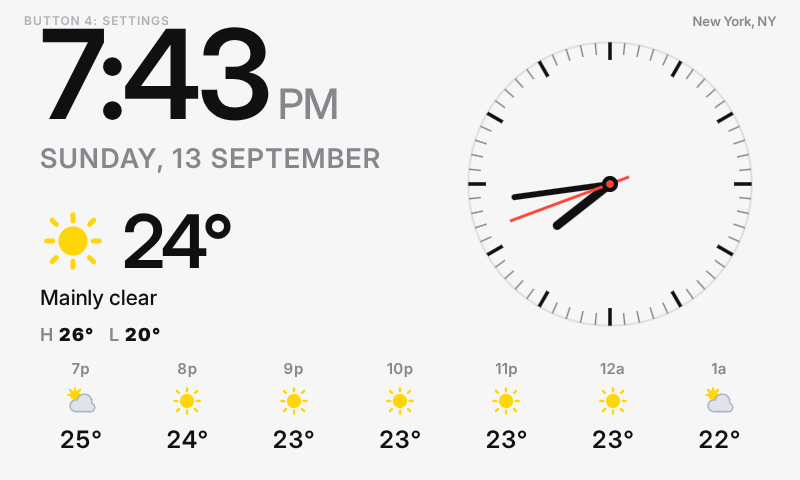
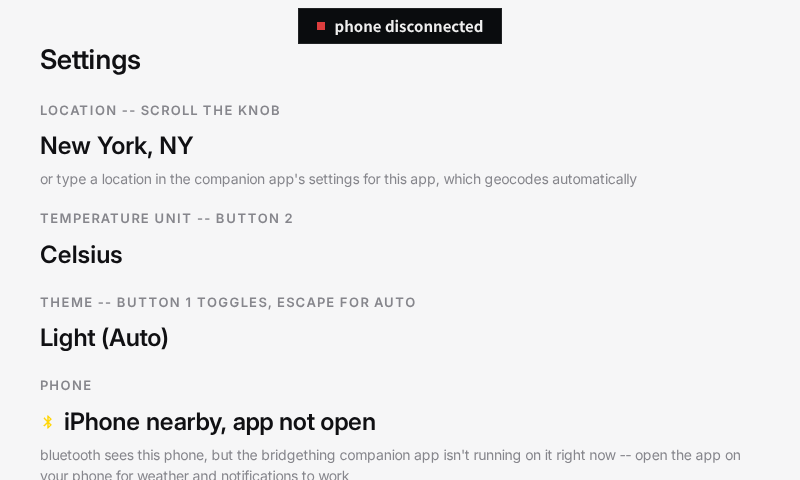
Update screenshots to show every current feature, captured live on the device
The old set (still showing the removed button legend) predated this session's
changes. Recaptured all six over CDP against the connected Car Thing: light
home, settings (now showing the real phone/Bluetooth status row), the new
7-day forecast view, the new notification center, standby mode, and dark
home. Both READMEs' galleries updated to match.

diff --git a/README.md b/README.md
@@ -11,9 +11,11 @@ multi‑tone weather icons, and an on‑device settings screen (physical button 
 
 **Source:** [`bridgething/apps/weatherthing`](bridgething/apps/weatherthing)
 
-| Night (auto dark) | Day (auto light) | On‑device settings |
+| Day (auto light) | Settings + phone status | 7‑day forecast |
 |---|---|---|
-| ![WeatherThing at night](bridgething/apps/weatherthing/screenshots/01.png) | ![WeatherThing by day](bridgething/apps/weatherthing/screenshots/02.png) | ![WeatherThing settings screen](bridgething/apps/weatherthing/screenshots/03.png) |
+| ![WeatherThing by day](bridgething/apps/weatherthing/screenshots/01.png) | ![WeatherThing settings screen](bridgething/apps/weatherthing/screenshots/02.png) | ![WeatherThing 7-day forecast](bridgething/apps/weatherthing/screenshots/03.png) |
+| **Notification center** | **Standby** | **Night (auto dark)** |
+| ![WeatherThing notification center](bridgething/apps/weatherthing/screenshots/04.png) | ![WeatherThing standby mode](bridgething/apps/weatherthing/screenshots/05.png) | ![WeatherThing at night](bridgething/apps/weatherthing/screenshots/06.png) |
 
 Controls: button **1** toggles dark/light, **2** toggles °C/°F, **3** opens a 7‑day forecast,
 **4** enters a dimmed standby (clock + temperature only, real backlight dimming), and **mode**

diff --git a/bridgething/apps/weatherthing/README.md b/bridgething/apps/weatherthing/README.md
@@ -9,9 +9,11 @@ multi‑tone weather icons, and an on‑device settings screen (physical button 
 **Install:** paste this catalog URL into the bridgething companion app —
 `https://nagarajan1295.github.io/BirdThing/catalog.v1.json`
 
-| Night (auto dark) | Day (auto light) | On‑device settings |
+| Day (auto light) | Settings + phone status | 7‑day forecast |
 |---|---|---|
-| ![WeatherThing at night](screenshots/01.png) | ![WeatherThing by day](screenshots/02.png) | ![WeatherThing settings screen](screenshots/03.png) |
+| ![WeatherThing by day](screenshots/01.png) | ![WeatherThing settings screen](screenshots/02.png) | ![WeatherThing 7-day forecast](screenshots/03.png) |
+| **Notification center** | **Standby** | **Night (auto dark)** |
+| ![WeatherThing notification center](screenshots/04.png) | ![WeatherThing standby mode](screenshots/05.png) | ![WeatherThing at night](screenshots/06.png) |
 
 Controls: button **1** toggles dark/light, **2** toggles °C/°F, **3** opens a 7‑day forecast,
 **4** enters a dimmed standby (clock + temperature only, real backlight dimming), and **mode**
